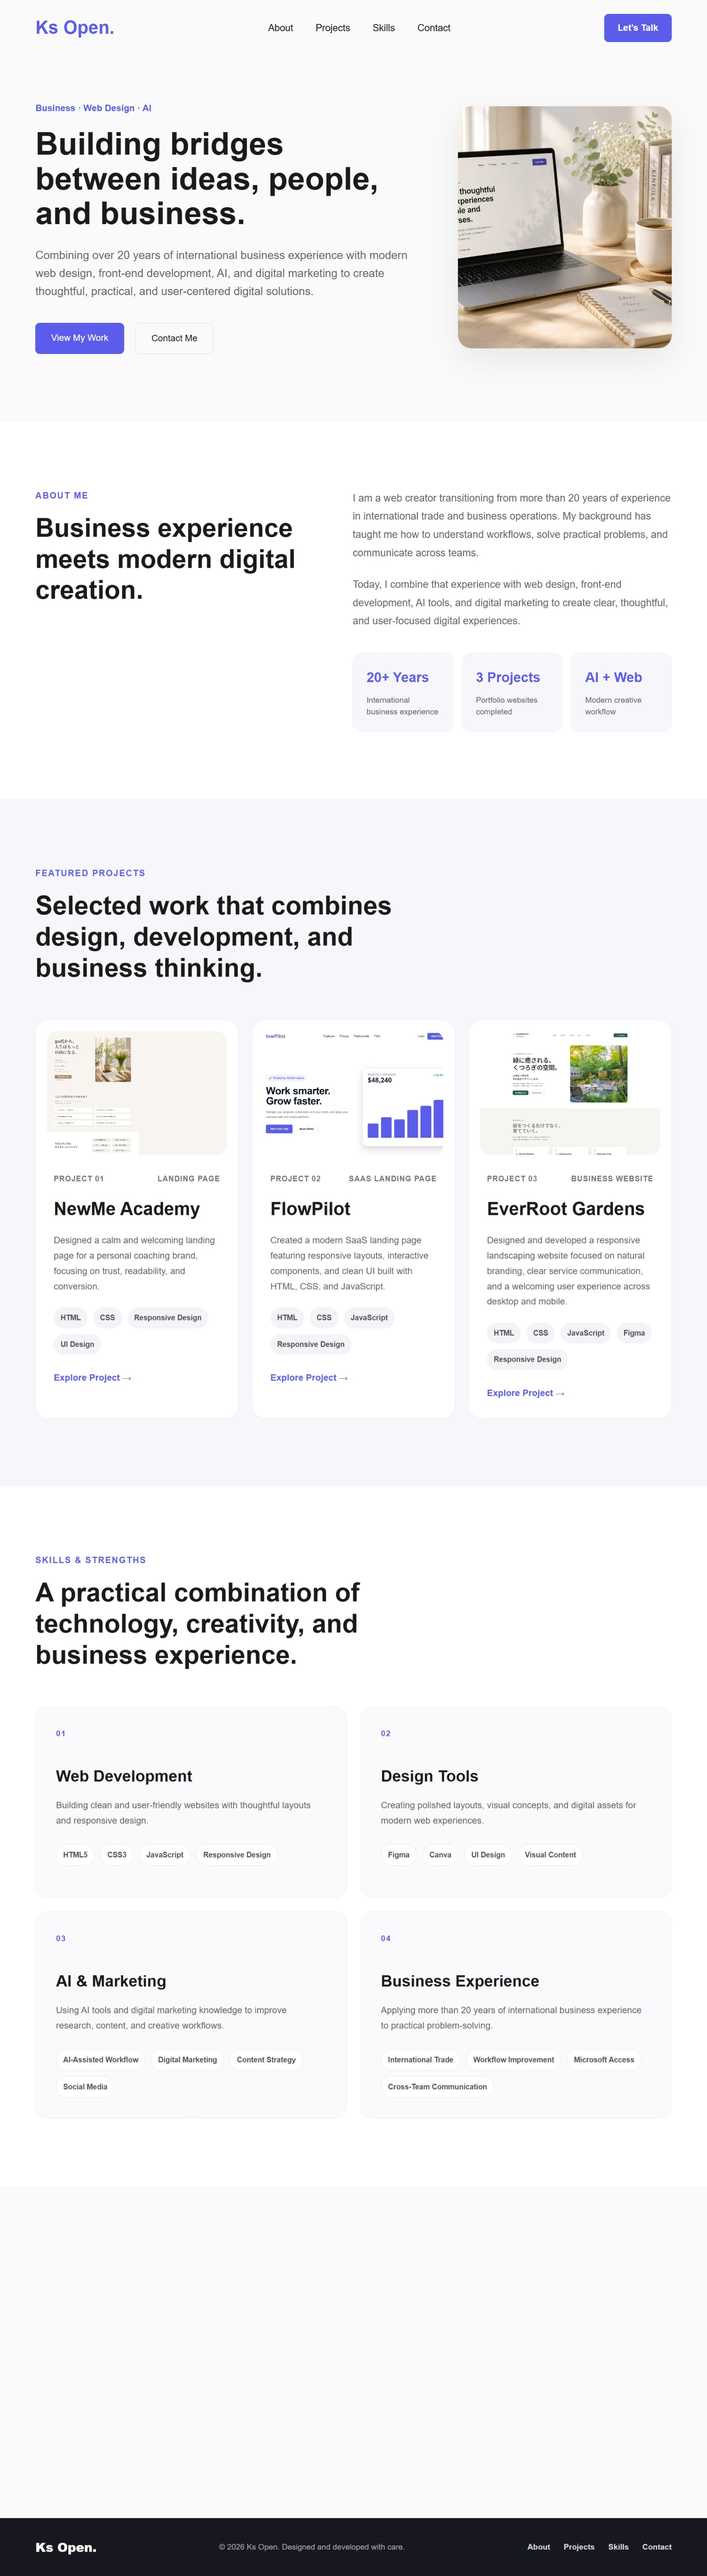
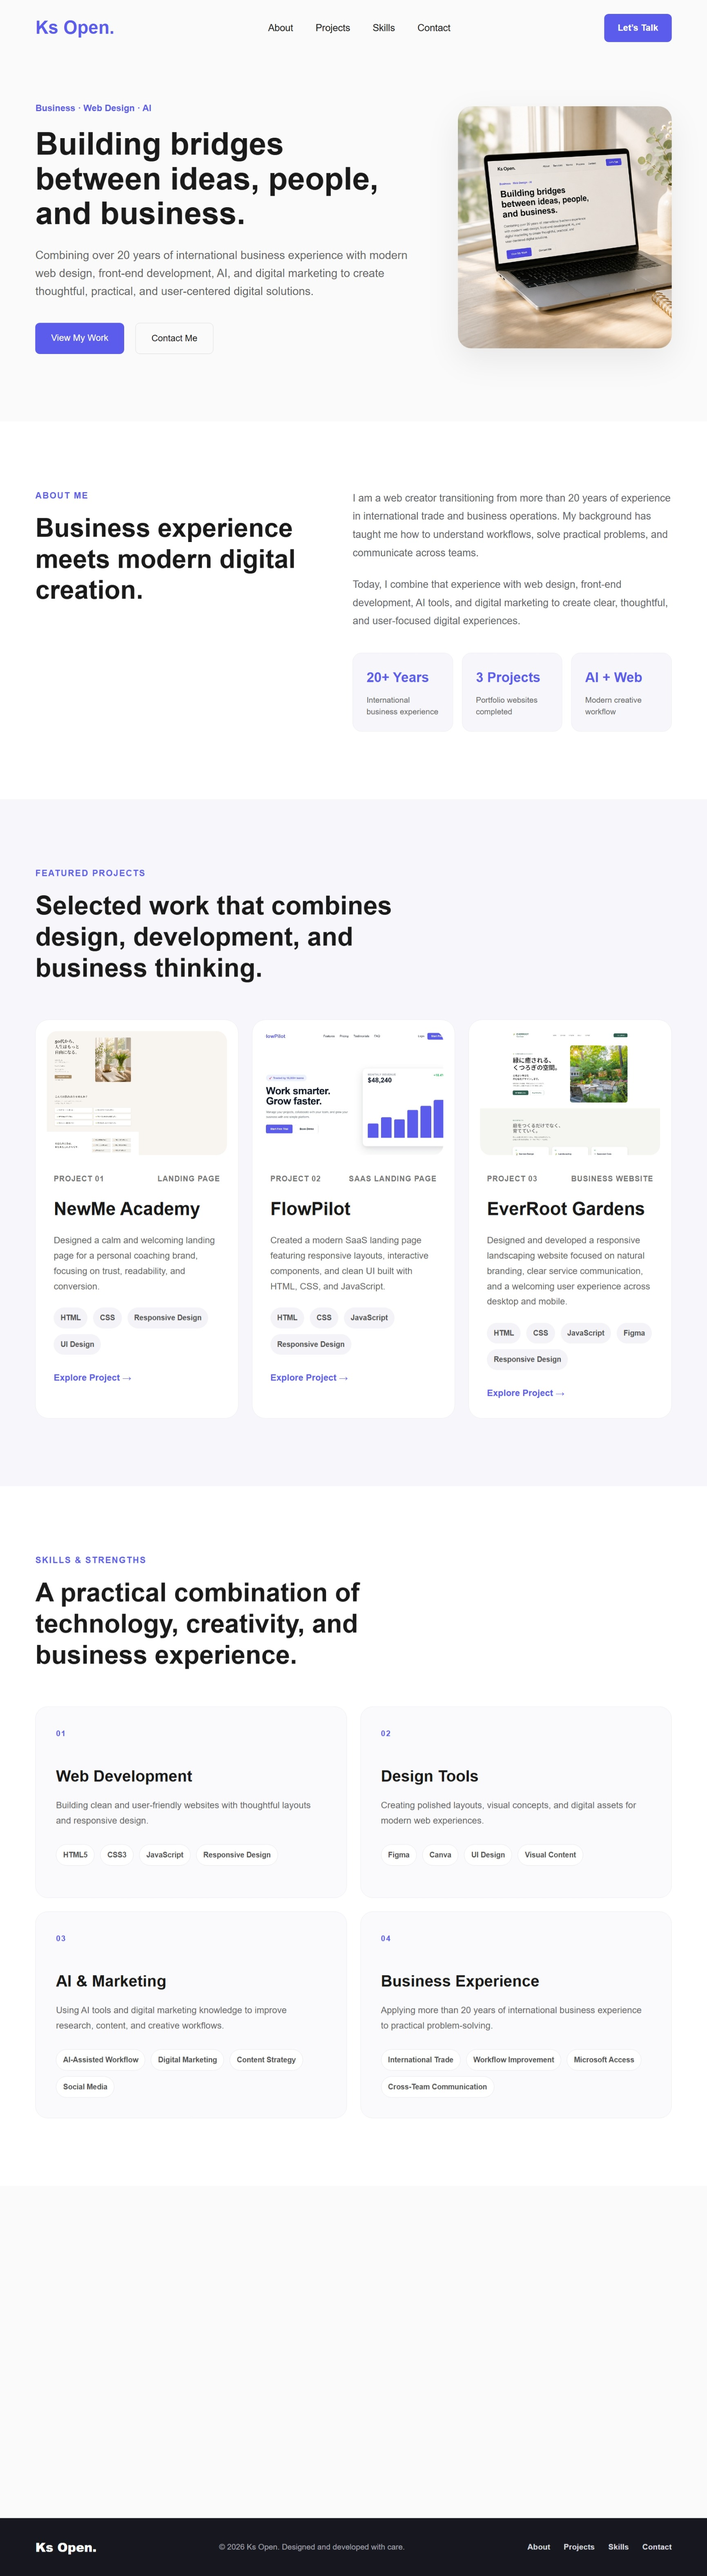
Update Ks Open hero and portfolio preview

Changed region(s): [[0.6239, 0.0311, 0.9671, 0.1555]]

diff --git a/style.css b/style.css
@@ -184,13 +184,11 @@ header{
     border-radius: 24px;
     box-shadow: 0 20px 60px rgba(0, 0, 0, 0.08);
 }
-.hero-card img{
-
-    width:100%;
-    height:100%;
-
-    object-fit:cover;
-
+.hero-card img {
+    width: 100%;
+    height: 100%;
+    object-fit: cover;
+    object-position: left center;
 }
 
 .hero-card p{
@@ -725,7 +723,8 @@ Responsive - Mobile
     width: 100%;
     height: 100%;
     object-fit: cover;
-  }
+    object-position: left center;
+}
 
   /* ---------- About ---------- */
 
